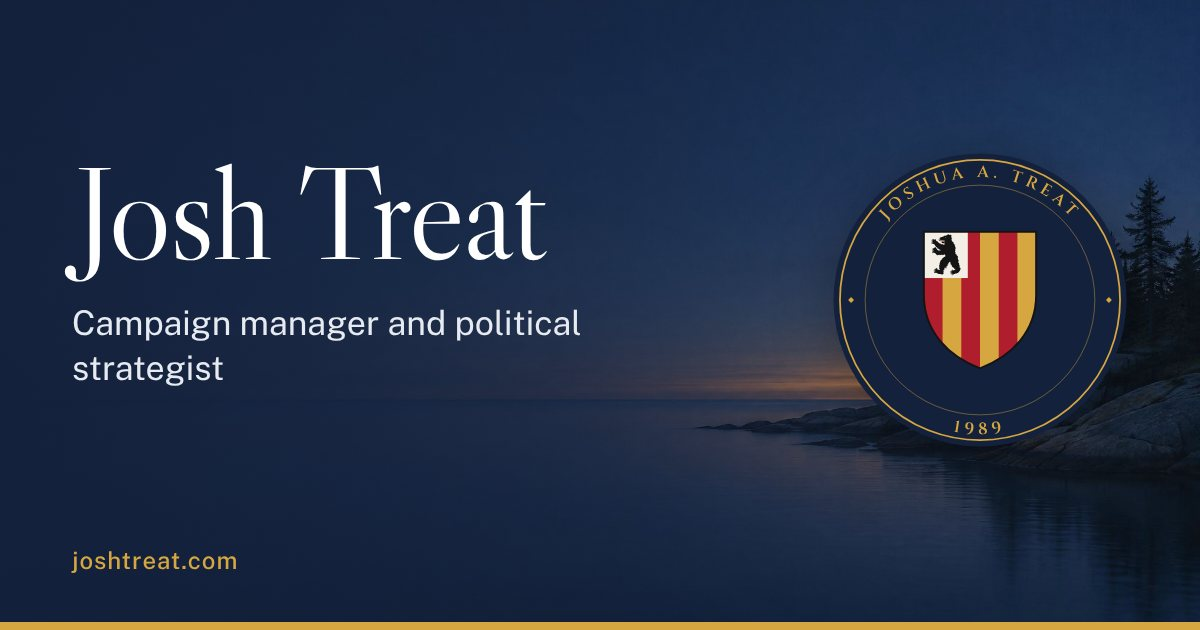
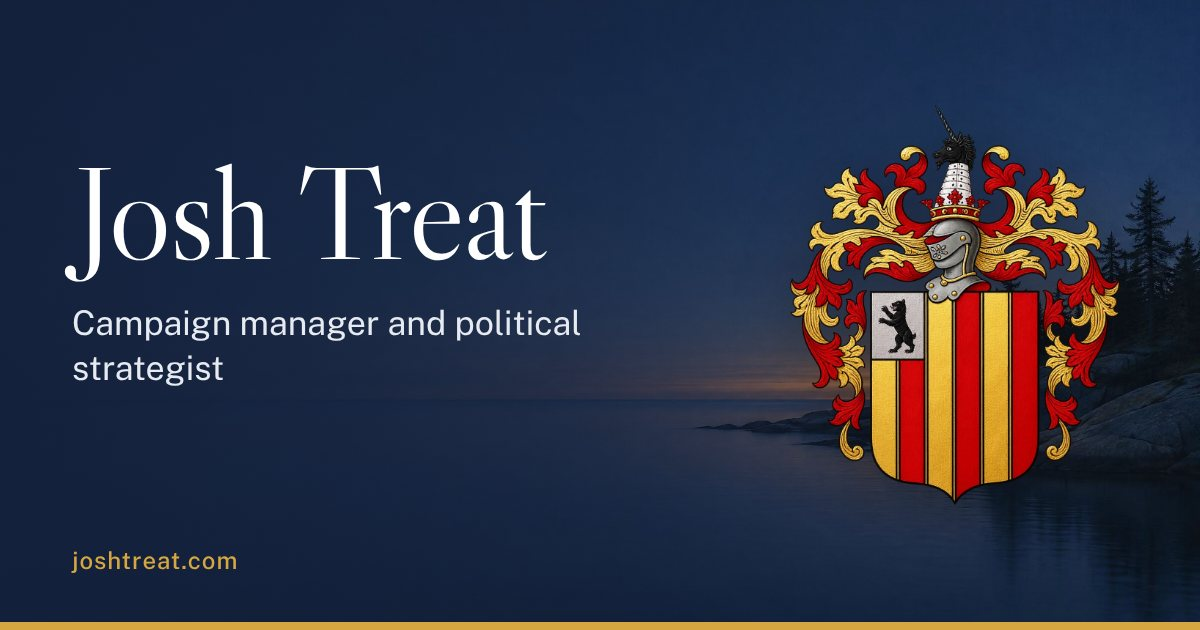
Crest: use the full painted Treat arms in the hero
Claude-Session: https://claude.ai/code/session_01UYVXu8Duyecri15RpRW5eS

Changed region(s): [[0.6475, 0.181, 0.9558, 0.8143]]

diff --git a/index.html b/index.html
@@ -90,7 +90,7 @@ a:hover { color: var(--gold-ink); }
 .btn-line { background: transparent; color: var(--white); border-color: rgba(255,255,255,.45); }
 .btn-line:hover { border-color: var(--white); color: var(--white); background: rgba(255,255,255,.06); }
 .badge { width: 100%; max-width: 21rem; height: auto; display: block; justify-self: center; filter: drop-shadow(0 10px 30px rgba(0,0,0,.35)); }
-@media (max-width: 55.99rem) { .badge { display: none; } }
+@media (max-width: 55.99rem) { .badge { order: -1; width: 8rem; justify-self: start; margin-bottom: -1rem; } }
 
 /* Sections */
 section { padding-block: clamp(3.5rem, 2.5rem + 3vw, 5.5rem); }
@@ -217,35 +217,7 @@ footer a { color: #C9D2E0; }
 <a class="btn btn-line" href="#contact">Get in touch</a>
 </div>
 </div>
-<svg xmlns="http://www.w3.org/2000/svg" viewBox="0 0 1024 1024" class="badge" width="336" height="336" role="img" aria-label="Round badge: Treat arms ringed by Joshua A. Treat, 1989">
-    <defs>
-      <clipPath id="shieldClip2"><path d="M4 4H96V56C96 86 76 106 50 116C24 106 4 86 4 56Z"/></clipPath>
-      <path id="arcTop" d="M92 512A420 420 0 0 1 932 512" fill="none"/>
-      <path id="arcBottom" d="M54 512A458 458 0 0 0 970 512" fill="none"/>
-    </defs>
-    <circle cx="512" cy="512" r="500" fill="#14213D"/>
-    <circle cx="512" cy="512" r="478" fill="none" stroke="#D6A740" stroke-width="6"/>
-    <circle cx="512" cy="512" r="392" fill="none" stroke="#D6A740" stroke-width="2" opacity="0.75"/>
-    <text font-family="Cinzel, Georgia, serif" font-weight="600" font-size="56" letter-spacing="0.28em" fill="#D6A740" text-anchor="middle">
-      <textPath href="#arcTop" startOffset="50%">JOSHUA A. TREAT</textPath>
-    </text>
-    <text font-family="Cinzel, Georgia, serif" font-weight="600" font-size="56" letter-spacing="0.28em" fill="#D6A740" text-anchor="middle">
-      <textPath href="#arcBottom" startOffset="50%">1989</textPath>
-    </text>
-    <rect x="65" y="505" width="14" height="14" fill="#D6A740" transform="rotate(45 72 512)"/>
-    <rect x="945" y="505" width="14" height="14" fill="#D6A740" transform="rotate(45 952 512)"/>
-    <svg x="303.7" y="262" width="416.6" height="500" viewBox="0 0 100 120">
-      <g clip-path="url(#shieldClip2)">
-        <rect x="4" y="4" width="92" height="112" fill="#B01E2D"/>
-        <rect x="19.33" y="4" width="15.34" height="112" fill="#D6A740"/>
-        <rect x="50" y="4" width="15.34" height="112" fill="#D6A740"/>
-        <rect x="80.67" y="4" width="15.33" height="112" fill="#D6A740"/>
-        <rect x="4" y="4" width="36" height="38" fill="#F3EFE6"/>
-        <svg x="4" y="4" width="36" height="38" viewBox="-70 -60 823 1075" preserveAspectRatio="xMidYMid meet"><!-- Bear rampant by Rinaldum, CC BY-SA 3.0, via Wikimedia Commons (curid=8391155); recolored sable --><g transform="translate(-6.4,-16.5)"><g><path d="m 197.8,124 c -27.3,4.6 -10.4,42.4 10.9,48.5 24.5,10.6 51.4,0.8 77,3.2 13.4,-3.6 43.3,7.5 44.4,-10.1 -24.6,-5.7 -51.3,0.9 -76.7,0 -22.2,3.7 -56.5,-3 -51.3,-32.7 -2,-2 3,-7 -4.3,-8.9 z" fill="#B01E2D" stroke="#141414" stroke-width="2" /></g><g><path fill="#141414" d="m 496.2,967.6 c -2.7,-9.1 -1.1,-16.7 4.7,-22.8 1.1,-1.2 2.2,-3.4 2.4,-5 0.2,-2.2 1.3,-3.4 4.8,-5.3 9.4,-5 9.6,-5.1 7.9,-5.1 -0.9,0 -2.9,-0.7 -4.4,-1.4 -1.5,-0.8 -3.5,-1.1 -4.4,-0.8 -2.2,0.8 -13,8.2 -13.7,9.4 -0.3,0.5 -1.9,0.7 -3.5,0.3 -3.6,-0.8 -6,0.7 -13.9,8.6 -3.7,3.7 -5.9,6.8 -5.9,8.2 0,2.2 0,2.2 -2.5,-0.5 -2.4,-2.6 -2.5,-3 -1.5,-9.6 1.1,-7.8 1.7,-9.8 4,-12.6 2.4,-3 9.5,-9.6 10.3,-9.6 0.4,0 0.8,-0.9 0.8,-2 0,-1.3 1.6,-2.9 4.8,-4.6 4.2,-2.3 7.2,-6 7.2,-8.6 0,-1.8 -5.5,-0.6 -9.5,2.2 -4.7,3.3 -9.5,4 -9.5,1.5 0,-2.5 -17,9.3 -17,11.9 0,0.6 -0.7,2 -1.5,3.1 -1.4,1.9 -1.5,1.9 -2.9,0 -2.2,-2.9 -1.9,-12 0.5,-17 1.1,-2.3 3.9,-5.7 6.2,-7.6 2.3,-1.8 4.8,-4.2 5.7,-5.2 3.1,-3.7 12.7,-10.3 16.6,-11.5 2.2,-0.7 5.8,-1.3 7.9,-1.4 6.1,-0.4 5.6,-2.5 -0.8,-3.3 -5.1,-0.6 -6,-0.4 -12.1,2.9 -3.6,2 -6.5,3.2 -6.5,2.7 -3.9,-5 -11.8,3.9 -14.5,7.1 -1.6,1.8 -3,2.5 -4.1,2.1 -1.4,-0.6 -1.6,-1.6 -1,-6.9 0.3,-3.4 1.1,-7.5 1.6,-9.1 9.2,-12.2 28.6,-17.4 43.2,-18.3 4,0.1 8.6,0.1 10.2,0.1 l 2.9,-0.1 c -4.6,-3.2 -6.9,-9.5 -11.8,-11.6 -4.4,-1.1 -9,0.5 -13.3,4.6 -2.3,2.2 -4.6,4 -5.2,4 -1.5,0 -1.3,-2.6 0.4,-5.8 3.5,-6.7 11.7,-11.2 20.2,-11.2 2.4,0 6.4,-0.5 8.8,-1.2 l 5,0.9 c 5.5,4.1 8.2,7.3 11.4,12.9 1.9,3.1 2,3.1 6.7,2.1 13,-3.5 25,-8.8 34.1,-18.9 6.3,-7.2 7.1,-8.4 5.9,-9.8 -3.6,-4 -6.5,-8.9 -11,-12.1 -0.6,0 -0.8,2.3 -0.4,6 0.7,6.9 0,7.4 -5.9,3.8 -5.6,-3.4 -9.8,-7.9 -20.4,-22.2 -5.3,-7.2 -10.7,-13.9 -11.9,-15 -1.2,-1.1 -4.3,-5.8 -6.9,-10.5 -4.2,-7.7 -4.7,-8.3 -5.3,-6 -0.4,1.4 -0.7,4.8 -0.8,7.7 -0.1,5.9 -1.2,6.5 -5.4,3.2 -4.3,-3.4 -8.1,-9.9 -14.1,-24.5 -3.1,-3.5 -11.8,-36.3 -13.1,-35.5 -2.8,3.7 -5.1,7.7 -9.4,10 -5.7,-19.9 -14,-41 -14.3,-62 -0.1,-12.4 -0.9,-14 -7.2,-14 -3.6,0 -5.2,0.9 -12.3,6.8 -9.2,7.6 -20.5,20.3 -24.7,27.7 -3.2,5.7 -4.9,13.5 -4.7,21.8 0.1,5 -0.1,5.8 -1.7,5.8 -3,-2.7 -4.9,-7.8 -9.1,-8 -1.4,14.8 -5.8,29.4 -5.4,44.2 0.3,3.8 0.1,5.8 -0.6,5.8 -8.3,-1.8 -12.8,-8.7 -18.8,-13.7 -0.1,0.1 -1,5.9 -1.9,12.7 -2.1,16 -7.2,46.6 -8.5,50.4 -0.5,1.6 -1,4.4 -1,6.2 0,2.7 -0.4,3.4 -2,3.4 -12.1,-7.4 -13.1,-26.2 -25.5,-33 -6.1,0 -9,6.2 -9.9,20.8 -0.7,13.5 -6.1,25.6 -7.8,38.9 -1.3,11.4 -2.3,12.5 -6.8,7.6 -2.5,-2.8 -10.8,-6.8 -11.8,-5.8 -0.3,0.3 -0.8,3.6 -0.9,7.3 -0.3,5.3 0.5,10.2 3.7,23.6 2.2,9.3 4.1,17.9 4.1,19.2 0,3.1 -2.4,3.1 -6.6,-0.1 -4.6,-3.5 -7.2,-3.2 -4,0.4 2.2,2.6 9.6,20.4 9.6,23.1 -2.2,14.2 -15,22.2 -26.3,28.7 -14.5,3.1 -41.3,-3.9 -56.1,-7.3 -14.8,-6.5 -35.2,-4.7 -49.5,-10.9 -10.8,-5 -21.1,-9.9 -31.6,-15.8 -4.8,-2.7 -4.2,-3.8 -12.2,-3.8 -5.2,0 -8.2,0.4 -8.4,1.2 -0.5,1.6 -8.4,3.8 -13.6,3.8 -4.7,0 -9.2,-2.3 -9.2,-4.7 0,-2.5 -9.9,-0.7 -13.1,2.3 -3.8,3.6 -5.3,3.2 -4.5,-1.3 1.1,-6.1 3.2,-8.9 8,-11.2 5.1,-2.3 10,-5.2 15.6,-6.1 6.5,0 11.9,-3.1 11.9,-6.8 0,-2.2 -5.3,-1.8 -10,0.6 -9.7,1.4 -5.9,0.5 -12.7,-1.3 -1,-1.5 -0.9,-2 -5.7,-1.7 -4.6,0.3 -5.8,0.8 -8,3.4 -3.1,3.6 -4,3 -4,-2.7 0,-9.2 6.3,-13.4 20.3,-13.4 7.9,0 9.7,-0.4 12.2,-2.2 1.6,-1.2 3,-2.7 3,-3.4 0,-1.4 -4.8,-2.5 -5.2,-1.2 -0.2,0.5 -3.1,1.2 -6.6,1.5 -5.8,0.5 -6.3,0.4 -6.8,-1.6 -0.4,-1.4 -1.3,-2.1 -3,-2.1 -3.2,0 -10,3.5 -11.6,6 -0.7,1.1 -2,2 -3,2 -1.4,0 -1.8,-0.9 -1.8,-4.5 0.3,-9.4 10.4,-13.4 18.4,-15.9 9.5,-2.7 14.9,-3.2 19.1,-1.6 1.7,0.7 3.3,0.7 4.5,0 1.6,-0.9 1.7,-1.5 0.8,-4.4 -1.2,-3.8 -2.8,-4.5 -9.5,-4.6 -4,0 -4.3,-0.2 -4.9,-3.1 -0.6,-2.8 -0.9,-3 -3.6,-2.5 -1.6,0.3 -4.8,2.2 -7,4.1 -5.5,4.7 -7.2,4.6 -6.3,-0.2 1,-5.2 5.8,-11.7 10,-13.8 2,-0.9 6.3,-1.8 9.8,-1.9 5.7,-0.1 22.9,1.5 30.4,2.9 2.9,0.5 3.3,0.3 3.9,-2.1 0.8,-4.9 -5.4,-8.1 -9.5,-8.5 -1.9,0 -4.2,-0.7 -5.1,-1.6 -1.6,-1.4 -2,-1.3 -5.2,1.5 -1.9,1.7 -4.2,3.1 -5.1,3.1 -2.2,0 -2.1,-3.5 0.2,-6.8 1.7,-2.9 2.5,-5.2 5.7,-6.6 15.6,-6.3 20.6,-8.3 33.5,5.5 7.2,8.6 6,10.5 8,16.9 2.4,10.2 14.4,11.2 23.6,12.6 4.6,0.5 9.6,2.2 19,6.5 4.7,2.1 6.7,2.3 9.5,0.8 2.2,-1.2 2.4,-4.2 1.3,-17.2 -0.6,-6.6 -0.9,-7.5 -2.4,-7 -1,0.2 -3,1.8 -4.4,3.4 -5.1,5.7 -5.4,4.7 -4.9,-15.3 0.3,-11.5 1.2,-23 2.5,-31 1.1,-7 1.9,-13 1.6,-13.2 -3.2,1.2 -5.4,4.5 -8.9,5 -3.3,-19.1 5.5,-40.9 14.4,-57.3 0.9,-1.1 6.7,-13.9 6.7,-14.9 -3.8,-1 -6.3,4.1 -7.8,7 -1.3,3 -3,3.6 -3.9,1.2 -1.3,-3.3 1.9,-18.1 5.8,-27.5 3.7,-9.3 8.9,-17.7 15.1,-25.5 l 6.5,-8 c -3.7,-0.6 -6.8,-0.6 -9.7,1.9 -3.4,3.2 -4.1,3.2 -4.1,0 8.2,-28.4 38.1,-42.4 55.5,-64 -4,1.5 -9.9,1.8 -10.6,0.6 12,-23.8 39.6,-35.3 61.6,-48.6 7.4,-2.1 11.9,-9.2 18.5,-12.1 4.4,-1.8 5,-3.7 2.1,-7.5 -7.9,-11.8 -14.5,-24.4 -21.6,-36.6 -12.5,5.5 -24.4,12.2 -36.6,18.4 -8.5,4.2 -14.8,5 -17.6,2.1 -1.6,-1.6 -1.6,-1.8 0.4,-4 1.8,-1.9 4.8,-9.7 4,-10.4 -6.2,3 -12.7,5 -19.6,6.2 -8.8,1.3 -13.2,2.9 -17.3,6.2 -4.1,3.3 -23.8,5.4 -27,2.9 -1.8,-1.4 -0.8,-5.7 1.4,-5.8 l 4.5,-7 c -7.3,0.1 -13.8,3.7 -20.9,4.8 -11.3,4.9 -21.8,9.9 -34.7,11.3 -4.8,0 -14.9,-3.2 -15.6,-4.9 4.6,-3.6 6.8,-7.3 6.7,-11.2 l -10.8,0.6 c -9.4,0.5 -11.5,0.4 -15.8,-1.3 -2.8,-1.1 -5.1,-2.7 -5.3,-3.6 1.8,-5.3 9.9,-3.6 11.8,-10 0,-1 -5.3,-4.4 -14,-9 -8.4,-4.5 -13.6,-14.7 -23.4,-16.6 -0.8,0 -5.5,-2 -10.4,-4.5 -5,-2.5 -9.6,-4.2 -10.5,-3.9 -3.8,3.2 -4.5,5.5 -10,4.9 -2.8,-0.4 -6,-0.9 -6.9,-1.1 -2.1,-0.2 -2.5,2.7 -3.8,4.2 -2.9,2.7 -5.2,8 -4.5,10.4 1,3.2 -2.7,2.6 -5.2,-0.7 -5.7,-9.1 -3.5,-20.4 3.1,-28.2 6.3,-7.2 9.7,-9.9 14.5,-11.5 2.8,-0.9 3.7,-1.9 4,-3.9 l 0.3,-2.6 -7.8,0.3 c -18.6,-1.1 -13.2,10.7 -17.7,13.7 -2.4,0 -3.7,-2.6 -4.3,-9.2 -0.7,-16.1 10.1,-25.4 26,-25.6 l 8.5,0.3 0.4,-3.1 c 0.4,-3 0.2,-3.1 -5.4,-4.4 -3.2,-0.7 -6.3,-1.9 -6.9,-2.7 -4.2,-3 -13.1,7.2 -14.9,11.2 0,2.6 -1.8,3.2 -3.8,1.2 -2,-2 -1.4,-12.3 1,-17.6 6.1,-13 15.6,-16 28.6,-16.2 h 9.2 v -2.8 c 0,-2.5 -0.4,-2.8 -3.7,-2.8 -3.1,-0.6 -6.5,-1.8 -9.3,-3.4 -7.1,-3.1 -16.7,4 -22.6,8 -0.2,0 -0.4,-2.1 -0.4,-4.8 4,-19 22.2,-21.3 38.1,-21.9 15,-0.5 18.3,-0.3 21.8,1.1 4.3,1.7 10.6,2.2 9.7,0.8 -0.3,-0.5 -2.5,-1.1 -4.8,-1.4 -6.2,-1.2 -7.3,-6.3 -13.9,-4.8 -2.7,0.7 -5.2,1 -5.5,0.7 1.3,-9.1 11,-13.5 19.3,-13.7 l 12.4,5.2 c 2.7,2.8 4.9,6 4.9,7 0,1 1.6,4 3.6,6.6 3.1,4.1 3.5,5.3 3.1,8.9 -0.4,3.6 -0.1,4.6 2,6.5 8.5,8.3 14,18.9 21.2,28.1 12.5,12.7 8.8,11.7 35,15.8 13.6,1.2 15.5,1.1 29.5,-1 8.2,-1.2 19.1,-2.8 24,-3.5 9.6,-1.3 9.6,-1.4 -0.5,-4.1 -8.4,-3.8 -37.8,-7.3 -43,-16 0,-0.6 1.6,-2.6 3.5,-4.5 3,-3 3.3,-3.6 1.7,-4.1 -14.7,-3.5 -28.9,-9.9 -43.4,-13.9 -4,0 -9.9,-2.5 -9.9,-4.2 0,-0.9 2.3,-3.3 5.1,-5.3 6,-4.3 5.8,-4.8 -3.5,-10.1 -9.7,-3.3 -16.4,-12.8 -26.1,-15.6 -6.9,-2.7 -1.4,-5.5 2.8,-8.2 -6.1,-5.1 -13.4,-8.3 -17.3,-15.7 -5.9,-11 -13.6,-20.6 -21.7,-30.1 -4.6,-5.3 -8.3,-10.4 -8.3,-11.2 0,-1.1 -0.9,-1.6 -2.8,-1.7 -1.5,0 -5.2,-1.6 -8.2,-3.4 -10,-6.1 -24.7,-12.9 -25.2,-11.7 -1.6,3.6 -12.8,7 -12.8,3.8 -4.5,-3.8 -8.7,1.8 -9,6.1 -0,2.5 -0.5,3.2 -1.8,3.2 -1.4,0 -2.1,-1.3 -3.1,-6.3 -4.6,-13.8 13.3,-21.7 23.8,-24.5 3.2,-0.4 3.9,-0.9 4.2,-3.2 0.4,-2.7 0.2,-2.8 -7,-4 -5.8,-1 -7.5,-1.7 -7.9,-3.2 -0.4,-1.6 -1.1,-1.8 -5.1,-1.2 -2.6,0.4 -5.9,1.7 -7.5,3 -2.9,2.5 -7.3,4 -8.3,3 1.7,-11.9 9.2,-20.1 21.3,-21.7 1.7,0 3.7,-0.7 4.5,-1.6 3.3,-3.6 10,1.6 12.9,-1.8 0,-0.8 0.7,-1.9 1.5,-2.6 2.5,-2.1 1.7,-3.5 -2.3,-3.6 -5.6,-0.2 -9.2,-1.9 -9.2,-4.3 0,-1.8 -0.6,-2 -5.1,-2 -5,0 -10.2,2.4 -12.2,5.7 -1.8,2.9 -3.7,1.4 -3.7,-2.8 -0.2,-18.7 19.3,-17.3 33.5,-17.1 l 8,0.5 -2.9,-3.1 c -1.9,-2.1 -3.9,-3.1 -5.8,-3.1 -2,0 -2.8,-0.5 -2.8,-1.8 0,-1.4 -1.4,-2 -7,-3.1 -7.6,-1.4 -8.1,-1.3 -12.5,3.6 -3.2,3.5 -4.8,2.9 -4.1,-1.4 2.8,-10.5 12.2,-15.7 22.4,-14.8 5,0.5 7.3,0.3 7.3,-0.4 0,-1.8 5.8,-1.2 10.3,1.1 9.3,6.6 12.5,3.6 30.7,17.7 5.8,3.8 6.5,4 7.1,2.5 0.7,-8.8 -7.9,-17 -14.8,-19.7 -1.4,0 -4.3,0.7 -4.3,-1 0,-3.8 6.2,-6.1 14.4,-5.2 9.5,1.6 19.4,9.4 22.7,18.6 1.7,4.9 2.9,10.2 2.8,12.5 -0.4,8.1 0.1,11.2 2.1,13.3 3.9,4 8.3,1 12.5,-0.8 4.9,25.7 19.7,1.1 23.4,13 0.7,2.7 2.8,8 4.7,11.8 l 7,15.2 c 1.1,-2.7 2,-5.4 2.4,-8.2 0,-2.5 3.7,-2.1 4.7,0.6 5.9,13.4 16.7,20.3 27.2,27.9 3.4,2.6 3.7,2.4 3.3,-2.1 -0.4,-4.3 0.9,-5.1 4.6,-3 15.7,10.1 25.4,21.9 47.7,30 0.6,-3.9 -1.3,-9.9 4,-10 6.1,0.9 11.7,6.5 16.4,10.3 l 6.9,5.8 c 12.1,-7.5 30.4,-4.9 41.6,-13.9 0.7,-1.1 -6.1,-4.8 -10.4,-5.6 -4.1,-0.8 -10,-5 -10,-7 0,-1.4 7.6,-5.3 14.5,-7.5 10.2,-3.2 14.3,-5.8 15.8,-10.2 1.8,-5.2 -16.2,-3.3 -30.8,3.2 -8.1,3.6 -19.1,5.3 -29.9,4.6 -9.2,-0.6 -10.6,-1 -16.5,-4.4 -8.4,-4.9 -11,-9.1 -11,-18.3 0,-5.1 0.4,-7 1.8,-8.2 1,-0.9 2.3,-1.7 2.9,-1.7 0.6,0 1.3,-2.8 1.6,-6.2 0.5,-5.1 1,-6.5 3.3,-8.5 4.5,-3.8 4.4,-3.9 9.5,9.7 2.8,7.4 4,9.5 5.5,9.5 1.7,0 1.9,-0.6 1.6,-5.7 -0.7,-11.8 1.8,-16.6 7.7,-15.3 2.8,0.6 3.8,2.8 7.3,17 0.7,2.8 1.3,5.1 1.4,5.3 0.1,0.2 1.8,0 3.8,-0.4 4.3,-0.8 4.4,-1.9 1.2,-8.2 l -3.8,-14.5 c 8.8,0.1 14.1,4.7 18.1,12.4 2.5,5.8 3,6.2 5.6,4.1 7.8,-10.8 1.3,-22.1 -2,-33.1 -0.7,-5.1 -9.7,-11.3 -13.5,-7.6 0,2.5 -3.3,11.6 -4.2,11.6 -4.2,5.3 -4.3,6 -7.7,1.1 -1.8,-1.6 -2.3,-3.1 -2.4,-8 l -0.1,-6 h -6.2 c -7,0 -6.6,-0.2 -15.6,10.8 -2.8,3.4 -5.6,6.2 -6.3,6.2 -3,-2.7 -6.2,-4.8 -7.4,-12 h -28 l -3.5,-4.8 c -2.6,-3.5 -3.6,-6.2 -4.1,-10.2 -1,-8.8 -1.2,-9.4 -7,-16.4 -5.3,-6.5 -5.5,-7 -5.5,-12.6 0,-5.7 0.1,-6 4.2,-9.3 8.7,-5.6 19.1,-8.8 29,-11.8 13,-4.1 25.7,-8.9 37.9,-14.9 5.4,-0.9 10.8,-3.6 16.3,-2.3 l 9.8,-9.3 c 13,-12.3 10.6,-11.6 56.8,-16.5 13.5,-1.4 15,-1.8 15,-3.8 0,-4.4 9.6,-15 19.1,-21.1 5,-3.2 7.1,-4 10.9,-4 9.5,0 18.2,4.2 21.7,10.6 1.2,2.2 2.2,4.7 2.2,5.6 0.1,1.6 0.3,1.6 3.3,-0.2 3.4,-2 15.5,-4 23.9,-4 3.1,0 6.5,0.8 9.2,2.1 8.6,4.7 17.1,12.2 16.4,22.6 -1.3,15.3 -4.3,23.7 -11.2,31.1 l -4,4.4 10.8,-0.6 c 11.7,-0.7 12.3,-0.3 8.8,4.3 -3,6.5 -8.4,11.6 -12,17.9 0,1.2 12.9,2.3 18.4,1.5 5.4,-0.7 5.5,-0.4 2.9,7.2 -2.9,8.1 -6.7,13.8 -11,16.2 -2.2,1.2 -4.7,2.2 -5.5,2.2 -9.1,4.8 9.5,24.6 13.3,27 9.1,3.9 18,13.2 18,18.7 0,2.4 -0.2,2.4 -4.2,1.7 -4.6,-0.8 -5.6,-0.9 -10.6,-0.6 l -3.3,0.2 c 10.4,10.7 25.1,12.8 37.3,20.7 4.5,3.1 8.8,9.8 8.8,13.6 0,2 -2.9,2.2 -5.3,0.4 -1.1,-0.8 -3.9,-1.1 -7.3,-0.9 l -5.6,0.3 8.4,8.7 c 11.5,11.2 21.1,24.2 31.8,36.1 7.7,8.5 12,14.2 12,15.9 0,1.5 -6.6,1.3 -9.8,-0.4 -2.8,-1.5 -10.2,-3.2 -10.2,-2.4 0,1.1 3.6,7.6 5.9,10.8 8.4,11.1 12.6,23.7 17.3,36.5 2.5,6.2 5.5,18 6.4,24.6 0.6,4.5 0.5,4.9 -1.4,4.9 -1.9,0 -8.2,-5.5 -8.2,-7.2 0,-0.4 -1.1,-0.8 -2.5,-0.8 -2.5,0 -2.5,0.1 -2.4,8.2 0,4.5 0.5,10.7 0.9,13.8 0.5,3 1.4,10 2,15.5 0.6,5.5 1.8,12.3 2.6,15.1 0.8,2.8 1.4,5.4 1.4,5.8 0,1.2 -3.9,0.7 -4.7,-0.6 -1.3,-2 -5.5,-4.3 -9.2,-5.1 -3.2,-0.6 -3.3,-0.6 -1.9,1.1 1.8,2.1 6.8,13.8 6.8,15.9 0,0.8 1.3,4.5 2.9,8.2 1.6,3.7 3.2,8.4 3.5,10.4 0.4,2 2,5.1 3.5,6.8 1.9,2.1 3,4.6 3.4,7.8 0.3,2.6 0.9,5.7 1.2,6.9 0.9,3.3 -2.2,2.9 -6.6,-0.8 -4.8,-4.2 -6.4,-3.9 -5.6,0.8 2.1,11.3 10.7,19 34.5,31.4 4.7,2.4 6.5,3.9 6.5,5.4 0,1.5 -0.8,2.1 -3.5,2.5 -4,0.6 -10,3.6 -10,5 0,0.5 1.7,2 3.8,3.3 2.1,1.3 4.6,3.3 5.7,4.5 1.1,1.2 2.3,2.1 2.8,2.1 1.5,0 11.7,7.4 11.8,8.5 0,0.6 1.9,3 4.1,5.5 4.5,4.9 8.8,13.3 9.2,17.6 0.2,2.8 0.1,2.8 -8.4,4.7 -2.5,0.6 -2.5,0.7 3.3,6.8 7.1,7.6 11.7,14.2 11.7,16.8 0,2.1 -2.6,2.8 -12.1,3.2 l -5.6,0.2 2.6,5.2 c 6.8,13.4 14.6,28.6 19,36.9 4.3,8.1 4.9,9.9 5.4,17.2 0.5,7.2 0.4,8.2 -1.1,8.2 -0.9,0 -2.1,-1 -2.7,-2.2 -0.9,-2 -5.9,-4.7 -6.8,-3.7 -1.1,1.2 0.8,7.2 2.4,7.7 1.9,0.5 2.4,2.3 3.5,12 0.7,5.8 0.6,6.2 -1.3,6.2 -1.1,0 -2.3,-0.7 -2.6,-1.5 -0.4,-1.1 -1.4,-1.3 -3.4,-0.9 -1.5,0.4 -2.9,0.8 -3.1,0.9 -0.3,0.3 0.5,1.4 11.9,17.2 3.3,4.5 6,8.6 6,9.1 0,0.5 2.2,3.8 5,7.5 2.8,3.6 5,7.5 5,8.6 0,1.1 0.5,2.3 1,2.6 1.6,1 4,7.4 4,10.6 0,3.8 -3,3.9 -5.9,0.3 -1.4,-1.8 -2.8,-2.5 -4.5,-2.2 -2.4,0.3 -2.4,0.4 -0.8,3.5 1.6,3.2 13.3,23.4 15.2,26.3 4.7,7.4 7.3,22.1 3.9,22.8 -0.9,0.2 -2.1,-0.8 -2.7,-2.2 -0.7,-1.6 -2,-2.5 -3.3,-2.5 -2.1,0 -2.1,0.3 -1.5,6.8 0.3,3.7 0.6,9.8 0.7,13.5 v 6.8 h 4.3 c 4.8,0 6.2,1.2 15.7,13 l 5.2,6.5 -0.6,6.5 c -0.3,3.6 -1.2,8.3 -2,10.5 -0.8,2.2 -2,6 -2.7,8.5 -6.5,24.2 -4.5,20.8 -35.2,58.7 -6.9,8.5 -12.8,13.8 -18.3,16.4 -2.2,1.1 -6.2,3.2 -9,4.8 -2.8,1.6 -6.5,3.6 -8.5,4.5 -1.9,0.9 -4.2,2.2 -5,2.9 -3.8,3.2 -12.7,5.6 -30,8.1 -10.2,1.5 -19.2,3.2 -20,3.9 -2,1.7 -11.5,5.6 -13.6,5.6 -2,0 -14.4,8.7 -14.4,10.1 0,0.5 -1,0.9 -2.3,0.9 -1.3,0 -2.8,0.5 -3.4,1.1 -0.9,0.9 -1.9,0.8 -4.1,-0.1 -2.5,-1 -3.4,-1 -5.5,0.5 -1.4,0.9 -2.6,2 -2.6,2.4 0,0.4 -1.7,2.6 -3.7,5 -2,2.4 -4.7,6.5 -6,9.2 -1.2,2.7 -2.9,4.8 -3.6,4.8 -0.8,0 -1.9,-1.7 -2.5,-3.9 z" /></g><path fill="#F3EFE6" d="m 286,191.5 c -0.6,0 -1,-1.7 -1,-3.8 0,-8.7 -2.6,-11 -4.8,-4.2 -1.1,3.5 -1,8.5 0.3,12.7 2.6,3.4 8,-1.9 5.5,-4.8 z" /><path fill="#F3EFE6" d="m 266,195 c 0,-2.5 -4.2,-14.5 -5.1,-14.5 -0.9,4.2 -2.6,12.1 0.9,15.3 3.3,0.9 4.2,0.7 4.2,-0.8 z" /><path fill="#F3EFE6" d="m 306.4,193.9 c 4.2,-3.5 -3,-10.9 -5.9,-13.2 -1.5,-0.3 -2.2,0.3 -1.2,3.5 2,3.9 1.6,11.4 7.1,9.8 z" /><path fill="#F3EFE6" d="m 293.9,149.5 c -4.8,1.7 -3.7,8.1 -2.4,12 4,-2.3 8.2,-9.6 2.4,-12 z" /><path fill="#141414" d="m 520,939.1 c 1.4,-6.9 11.8,-9.8 8.5,-16.8 -1.7,-3.3 -9.1,-7.2 -15.1,-8.1 -3.8,-0.5 -4.2,-0.4 -4.7,1.9 -1,3.9 -7.4,7.8 -13,7.8 -4,0 -4.7,-0.3 -4.7,-2 0,-1.1 0.7,-2 1.5,-2 2.8,0 10,-4.7 12.3,-8 2.5,-3.6 2.8,-6.8 1.1,-11.5 -1.1,-3.2 -1.2,-3.2 -9.8,-3.7 -7.5,-0.5 -8.8,-0.3 -10.7,1.4 -2.8,2.6 -4.4,2.4 -4.4,-0.4 0,-3.2 1.8,-4.7 5.6,-4.7 1.8,0 3.5,-0.5 3.9,-1.1 0.4,-0.7 2.6,-0.8 6,-0.4 4.8,0.6 5.6,0.4 7.8,-1.8 1.8,-1.8 2.3,-3.2 1.9,-4.9 -1,-4.1 -4.3,-7.8 -7.6,-8.7 -2.2,-0.6 -3.2,-1.4 -3.2,-2.8 0,-1.8 0.8,-1.9 11.5,-2.1 25.6,-0.3 41,-3 45.1,-7.9 1.1,-1.4 11.1,-9.7 18.1,-15.2 1.3,-1 5.5,-5 9.5,-9.1 10.7,-10.8 10.7,-10.9 -5.8,-30.6 -12,-14.3 -13.3,-15.6 -16.3,-15.6 -3.4,0 -7.7,3.3 -7.7,5.9 0,2.1 -2.6,-0.5 -6.7,-6.7 -2,-3 -5.7,-7.7 -8.3,-10.6 -4,-4.3 -12.4,-17.8 -17.8,-28.5 -2.7,-5.2 -7.3,-9.2 -10.7,-9.2 -1.8,0 -3.8,0.7 -4.4,1.5 -1.7,2.1 -2.8,1.9 -3.5,-0.8 -0.4,-1.2 -1.7,-4.5 -3,-7.2 -1.2,-2.8 -4,-13.8 -6,-24.5 -2.1,-10.9 -4.4,-20.3 -5.3,-21.2 -2.4,-2.8 -8.6,-2.3 -11.1,0.9 -2.3,3 -2.3,3 -3.8,-1.1 -3.2,-8.5 -4.8,-20.8 -6.9,-51.8 -0.5,-7.8 -0.9,-9 -3.1,-10.8 -3.5,-2.8 -8.6,-2.5 -11,0.5 l -1.9,2.4 -1.1,-3.2 c -0.6,-1.7 -1.4,-5 -1.8,-7.2 -0.4,-2.2 -1.7,-6.5 -3,-9.5 -1.2,-3 -2.9,-7.5 -3.6,-9.9 -0.7,-2.4 -2,-5.3 -3,-6.5 -0.9,-1.2 -2.2,-4.4 -3,-7.1 -0.7,-2.8 -2.2,-6.8 -3.2,-8.9 -1,-2.2 -1.9,-4.9 -1.9,-6.1 0,-1.2 -0.3,-3.6 -0.6,-5.3 -0.6,-3 -0.7,-3.1 -2.5,-1.5 -1.3,1.2 -1.9,3.1 -1.9,6.6 0,4.9 7.6,45.3 8.8,47.2 0.4,0.6 0.7,5.8 0.8,11.7 0.1,10.6 0.1,10.7 -2.7,12.8 -1.6,1.2 -3.3,2.1 -3.8,2.1 -1.8,0 -7.4,5.4 -8.8,8.4 -0.8,1.7 -2.6,5.1 -4.1,7.7 -1.5,2.5 -4.8,8.4 -7.4,13 -2.6,4.6 -5.6,9.2 -6.8,10.1 -1.1,1 -2,2.5 -2,3.3 0,1.4 -0.2,1.4 -2.2,0 -3,-2.1 -8.1,-2 -10,0.2 -0.8,1 -1.8,3.5 -2.1,5.8 -2.2,15.7 -4.8,32.3 -5.3,33.8 -0.4,1.4 -1.2,0.9 -4,-2.8 -3.2,-4.2 -3.8,-4.5 -7.8,-4.5 -5.9,0 -7.1,1.8 -8.5,12.5 -2.3,17.7 -5.1,37.1 -6.4,43.9 l -1.3,6.9 -3.7,-4.5 c -2,-2.5 -3.7,-4.9 -3.8,-5.4 0,-0.5 -2.7,-2.8 -5.9,-5.2 -5.4,-3.9 -6.2,-4.2 -10,-3.6 -6.1,1 -8.2,3.2 -10.2,11 -1,3.8 -2.5,9.4 -3.4,12.4 -0.9,3 -2.2,8.2 -3,11.6 -0.7,3.4 -1.8,7.2 -2.4,8.5 -0.8,2 -4.1,22.5 -4.1,25.9 0,1.6 -2.8,1.1 -8.1,-1.6 -4.1,-2.1 -5.9,-2.4 -9.4,-1.9 -9.1,1.4 -9.9,5.9 -5,27.9 1.9,8.8 3.8,17.2 4.1,18.6 0.5,2.5 0.3,2.7 -4.1,3.3 l -4.7,0.7 0.3,9.3 c 0.2,6.9 0.8,9.8 2,11.2 0.9,1 3,5.1 4.7,9.2 l 3.1,7.3 -3.6,4.9 c -2.1,2.8 -5.7,6 -8.4,7.5 -2.6,1.4 -5,3 -5.3,3.5 -0.3,0.5 -3.3,0.2 -6.8,-0.5 -3.5,-0.7 -8.8,-1.4 -11.9,-1.4 -5.8,0 -27,-4.7 -36.9,-8.1 -1.4,-0.5 -9.7,-1.8 -18.5,-2.9 -12.7,-1.6 -16.7,-2.6 -19.5,-4.4 -1.9,-1.3 -8.9,-4.5 -15.5,-7.1 -10.2,-4.1 -12.7,-5.6 -16.6,-9.7 l -4.6,-4.8 -8.2,0.7 -8.2,0.7 1,-2.7 c 0.6,-1.5 1,-5.1 1,-8.1 0,-4.3 -0.5,-6 -2.7,-8.5 -2.4,-2.9 -2.6,-3.9 -2.4,-10.3 0.2,-6.5 0.5,-7.5 3.3,-10.4 3,-3.1 3.1,-3.3 2.5,-10.8 l -0.6,-7.5 h 2.7 c 1.5,0 4.5,0.7 6.7,1.4 2.2,0.8 5.6,1.5 7.5,1.5 1.9,0 5.6,1.2 8.2,2.5 2.6,1.4 5.2,2.5 5.8,2.5 0.6,0 2.6,0.6 4.3,1.4 5.7,2.4 10.4,3.7 15.8,4.3 2.9,0.3 6.6,1.3 8.3,2.1 3.5,1.8 7.6,3.1 13.1,4.3 2.2,0.5 7.5,1.7 11.8,2.6 8,1.8 10.2,1.5 11.8,-1.8 3.1,-6.4 3.2,-6.9 2.4,-31.3 -0.7,-22 -0.9,-24.7 -2.6,-26.2 -1.2,-1.1 -3,-1.5 -5.4,-1.3 -3.4,0.4 -3.5,0.3 -3.5,-2.8 0,-1.8 0.6,-6.5 1.4,-10.6 2.5,-12.9 3.6,-20.4 4.2,-28.2 0.7,-8.7 -0.7,-11.6 -5.8,-11.6 -1.6,0 -2.9,-0.3 -2.9,-0.6 0,-1.3 10.2,-25 11.4,-26.4 0.7,-0.8 3.4,-6.7 6,-13 2.6,-6.3 5.4,-12.2 6.2,-13.1 0.8,-0.9 1.4,-3.4 1.4,-5.6 0,-4.8 -2.3,-7.3 -6.8,-7.3 -3.6,0 -4.1,-1.5 -1.4,-5.1 1,-1.3 2.3,-3.5 2.9,-4.9 0.6,-1.4 5.3,-7.8 10.5,-14.3 15.9,-20.1 16.8,-21.4 16.8,-24.5 0,-3.5 -2.4,-6 -6.2,-6.4 -2.5,-0.3 -1.9,-1 8.2,-9.8 6,-5.2 18.1,-15.9 27,-23.8 14.2,-12.7 16,-14.7 16,-17.4 0,-1.7 -0.7,-3.9 -1.6,-4.8 -1.4,-1.6 -1.2,-2 2.2,-4.7 2.1,-1.6 6.3,-4.4 9.3,-6.2 7,-4.1 8.4,-4.9 14.5,-8.7 2.8,-1.7 7.7,-4.5 10.9,-6.3 3.3,-1.8 7,-4.1 8.4,-5.2 1.4,-1.1 3,-1.9 3.7,-1.9 0.7,0 2,-0.9 3,-2 1,-1.1 2.3,-2 2.9,-2 0.6,0 4.2,3.9 8.1,8.6 14.3,17.6 18.8,22.9 19.9,23.3 1.1,0.4 18,13.5 22.4,17.4 2.1,1.8 2.3,1.8 2.9,0.3 0.4,-1.1 -0.1,-2.2 -1.4,-3.1 -2,-1.4 -7.3,-7.8 -28.7,-34.6 -17.6,-22.1 -19.1,-24.4 -26.5,-39.5 -1.1,-2.3 -2.6,-4.7 -3.4,-5.3 -0.8,-0.7 -1.7,-3.4 -2.1,-6.1 -0.4,-2.7 -1.1,-5.2 -1.7,-5.6 -0.6,-0.3 -1.7,-2 -2.5,-3.8 -0.8,-1.7 -2.5,-4.9 -3.9,-7.1 -1.3,-2.2 -2.4,-4.3 -2.4,-4.6 0,-0.3 1.4,-1.2 3.2,-1.9 1.8,-0.7 4.4,-2.2 5.7,-3.2 l 2.5,-1.9 0.8,2.8 c 0.9,3.2 0.2,7.3 -1.3,7.3 -1.1,0 -1.3,4.9 -0.4,7.4 1,2.6 13.4,1.9 13.4,-0.8 0,-0.6 10.2,-5.3 22.8,-10.5 12.5,-5.2 24,-10.3 25.6,-11.3 1.6,-1.1 3,-1.8 3.3,-1.5 0.2,0.2 1,2.8 1.8,5.6 1.1,4.3 1.1,5.6 0,7.8 -0.7,1.4 -1.4,3 -1.4,3.5 0,1.2 4.2,1.1 7.5,-0.1 4.9,-1.9 44.7,-36.6 47,-41.1 0.8,-1.6 2.8,-4.4 4.3,-6.2 4.3,-5 5.7,-10.2 5.4,-19.2 l -0.3,-7.9 -2.1,3.4 c -4.2,6.8 -5.8,10 -5.8,11.4 0,2.4 -9.1,12.6 -11.2,12.6 -1.1,0 -6.3,3.7 -11.6,8.3 -18.9,16.3 -20.2,17.2 -21.2,15.7 -0.5,-0.8 -0.9,-2.4 -0.9,-3.6 0,-6.7 -12.9,-7.2 -21,-0.8 -1.1,0.9 -28.7,12.8 -39.8,17.1 -0.9,0.4 -1.2,-1 -1.2,-5 0,-10.8 -5.5,-13.3 -17.2,-7.7 -9.8,4.7 -16.2,7.9 -17.8,8.9 -0.8,0.5 -7.1,3.8 -13.8,7.2 -6.8,3.5 -14.2,7.3 -16.5,8.5 -5.8,3 -6.7,2.9 -6.7,-1 0,-5 -2.5,-6.7 -10.2,-6.7 -5.6,0 -7.5,0.5 -13.9,3.8 -5.8,3 -9.4,4.1 -16.3,5 -4.9,0.6 -9.9,1.8 -11.2,2.7 -3.2,2.1 -3.4,2 -3.4,-1.8 0,-2.1 -0.8,-4 -2,-5.1 -1.8,-1.7 -2.8,-1.7 -12.2,-0.6 -13.7,1.6 -19.4,2.6 -24.3,4.5 -2.2,0.8 -5.4,1.6 -7.1,1.6 -1.7,0 -4.6,1.1 -6.5,2.5 -4.9,3.6 -9.8,6 -10.6,5.2 -0.4,-0.4 -0.1,-1.8 0.5,-3.2 1.8,-4 1.4,-7.9 -1.1,-10.3 -2.5,-2.4 -5.2,-2.7 -10.7,-1.3 -1.9,0.5 -5.6,1.1 -8.2,1.5 l -4.8,0.6 v -4.4 c 0,-3.9 -0.4,-4.7 -4.4,-8 -2.4,-2 -4.9,-3.6 -5.4,-3.6 -2.8,0 -16.7,-8.6 -21.8,-13.5 -3.2,-3.1 -7.2,-6.3 -8.9,-7.2 -5.6,-2.9 -15.9,-6.4 -23.8,-7.8 -6.9,-1.3 -8.2,-1.3 -11.4,0.1 -4.7,2 -5.4,1.9 -5.4,-0.4 0,-2.6 3.7,-5.1 7.6,-5.1 h 3.1 l 0.6,-9.2 c 0.4,-6.7 0.3,-9.4 -0.6,-10 -0.7,-0.4 -3.5,-0.8 -6.2,-0.8 -5.1,0 -7.5,-1.2 -7.5,-3.8 0,-1.1 1.2,-1.2 5.2,-0.8 7.6,0.9 11,-0.4 12.4,-4.5 3.3,-9.6 3.7,-12 2.5,-13.2 -0.6,-0.6 -1.2,-2 -1.2,-3 0,-1.3 -1.1,-2 -4,-2.4 -2.7,-0.4 -4.2,-1.3 -4.6,-2.6 -0.8,-2.5 -0.6,-2.6 4.6,-3.6 2.4,-0.5 6,-1.7 7.9,-2.8 3.5,-2 3.5,-2 3.8,-9.8 0.3,-6.9 0,-8.1 -1.9,-10.2 -1.2,-1.3 -2.7,-2.4 -3.3,-2.4 -0.6,0 -2.8,-0.5 -4.8,-1 -6.7,-1.9 -4,-4.9 4.2,-4.9 4.7,0 8,1 8,2.3 0,0.6 2.8,2 6.2,3 11.7,3.5 14.2,4.7 19.9,9.4 4.8,4 18.8,20.9 18.8,22.7 0,0.3 2.5,3.9 5.6,8 4.2,5.5 6.8,8 10,9.4 2.4,1.1 6.7,3.5 9.6,5.4 5.1,3.3 5.8,3.5 20.3,4.7 18.4,1.5 27.1,1 53.5,-2.9 11.3,-1.7 23.6,-3.5 27.5,-4.1 12.6,-1.8 14.8,-3.2 14.3,-9.3 -0.2,-2.7 0.2,-4.2 1.2,-4.7 4.5,-2.4 24.7,-13.7 27.5,-15.4 9.7,-5.8 13.1,-7.9 14.7,-9.3 2.5,-2.1 2.3,-8.4 -0.2,-10.7 -1.9,-1.8 -1.8,-2 10.5,-14.7 6.9,-7.1 12.5,-13.5 12.5,-14.2 0,-0.7 2.2,-4.3 5,-7.9 2.8,-3.6 5,-6.9 5,-7.2 0,-0.4 1.4,-2.4 3.1,-4.6 12.1,-15.2 -19,8.2 -42.9,32.4 -13.1,13.2 -14.2,14.7 -14.2,18 0,2 0.5,3.9 1.1,4.3 0.7,0.5 0,1.3 -1.9,2.3 -1.7,0.9 -7.5,4.1 -12.9,7.2 -10.3,5.9 -11.8,6.7 -20.1,11 -4.7,2.4 -5.2,2.5 -6.6,1 -1.9,-2.1 -10.3,-4.9 -27.6,-9.2 -5.8,-1.4 -10.3,-3.6 -9.1,-4.4 2.1,-1.3 1.3,-8.1 -1.1,-10.2 -2.3,-2 -14.6,-7.3 -17.1,-7.3 -0.7,0 -3.5,-0.8 -6.2,-1.9 -2.7,-1 -7.6,-2.6 -10.9,-3.6 -13.1,-3.8 -14.6,-4.5 -13.5,-6.5 2.6,-4.9 0.2,-11.1 -5.4,-13.6 -1.7,-0.8 -5.8,-3.1 -9.1,-5.1 -5.8,-3.6 -6,-3.9 -5.7,-7.4 0.3,-3.4 -0.1,-4 -4.5,-7.3 -10.6,-8 -20.9,-15.2 -22.6,-15.8 -1,-0.4 -2.3,-1.9 -3,-3.5 -0.7,-1.5 -2.5,-4.4 -4,-6.4 -1.5,-2 -3.2,-4.7 -3.7,-6 -1.2,-3.1 -12.2,-16.7 -19.8,-24.4 -7.7,-7.9 -15.9,-14.6 -20.3,-16.6 -1.9,-0.9 -4.1,-2.3 -4.9,-3.2 -0.8,-0.9 -2.1,-1.7 -3,-1.7 -0.9,0 -2.2,-0.5 -2.7,-1.1 -0.6,-0.6 -3.5,-1.3 -6.4,-1.6 -3,-0.3 -5.6,-0.7 -5.8,-0.9 -1,-1 2,-5.4 3.8,-5.4 2.2,0 3.1,-2.6 3.1,-9 -0,-4.2 -0.2,-4.6 -3.8,-6.2 -2.1,-1 -4.3,-1.8 -5,-1.8 -0.6,0 -1.2,-0.9 -1.2,-2 0,-1.4 0.7,-2 2.3,-2 3.3,-0.8 8.4,-1.7 9.5,-5 0.2,-1.4 0.9,-3.2 1.6,-4 2,-2.3 2.5,-7.1 0.9,-7.7 -1.5,-2 -3.1,-5.4 -3.4,-8 0,-2.5 0.2,-2.6 4.4,-2 3.9,0.5 4.7,0.3 7,-2.2 2.3,-2.4 2.5,-3.2 1.7,-5.4 -1.1,-2.4 -2.8,-3.7 -3.1,-6.3 0,-2.1 0.5,-2.4 3.3,-2.4 4.1,0 5.6,4 9.4,5 3.9,0.9 5.5,5.9 7.8,9 11.6,15.1 14.1,20.7 10.6,24.4 -1.2,1.2 -2.1,3.1 -2.1,4.2 -0.1,3.6 -6.5,13.3 -11.3,16.9 -3.9,3 -4.7,4.1 -4.7,6.9 0,6.6 5.8,8.4 13.3,4.3 4.6,-2.4 9.5,-3.6 13.7,-6.7 3.7,-2.9 3.7,-3 4.4,-12.7 0.4,-5.4 0.7,-11.9 0.7,-14.5 0,-3.4 0.3,-4.8 1.3,-4.8 2.4,1.2 4.6,1.9 7.5,2 5.9,-0.5 7.2,4.2 10.2,8.2 2.8,3.6 3.2,3.8 8.9,3.8 4.3,0.8 7.5,-1.8 11.2,-2.9 0.2,0.2 0.8,3.5 1.5,7.4 0.9,8.9 3.8,13.3 9.7,19.2 5,4.8 6.2,4.9 10.7,0.7 3.2,-2.9 6.1,-2.6 7.9,0.9 2.8,5.1 7.3,9.2 9.3,14.7 0.3,1.4 1.5,3 2.5,3.5 5.3,2.7 15,8.6 15.5,9.5 1,1.6 9.1,1.2 10.5,-0.5 1.9,-2.3 3.5,-1.8 9.5,3 9.1,9.2 23.6,11.8 33,20.4 2.3,0.9 3.8,2.5 13.6,-3.3 3,3.2 5.5,5.5 10.2,5.1 4.1,-0.4 15.5,-4 18.8,-5.9 2.4,-1.4 3.1,-1.5 11.3,-2.8 15.4,-2.4 29.7,-11.6 29.7,-19.1 0,-4.3 -0.8,-5.7 -6,-9.8 l -4.8,-3.9 c 3.5,-4.2 9.2,-3.3 13.3,-6.2 4.7,-5.2 7.4,-21.4 4.1,-24.1 -6,-3.1 -14,2.4 -19.6,-1.6 -2.3,-2.1 -2.4,-6 -0.2,-10.5 2.3,-4.6 2.3,-17.7 0.1,-24.4 -5.2,-17 -3.9,-21 -19.8,-29 -3.2,-1.8 -36.8,-2.1 -45.4,-0.4 -4.9,1 -5.9,0.9 -7.5,-0.5 -2,-1.8 -9.1,-2.2 -11.9,-0.7 -9.9,5.8 -18.6,6.9 -19.2,-6.1 0,-3.4 -2.2,-8.2 -5.4,-11.8 -1.2,-1.4 -3,-3.7 -3.9,-5.2 -1.6,-2.7 -1.6,-2.7 1.5,-3.4 1.7,-0.4 4.5,-1.4 6.2,-2.4 2.9,-1.6 8.9,-3.6 18.1,-6.2 8.4,-2.3 10.1,-2.9 23.1,-8.8 7.1,-3.4 14.6,-5.8 22.4,-7 7.7,-1 8.8,-1.5 12.1,-4.7 4,-3.9 4.9,-3.4 4.9,2.7 0,2.4 -0.4,2.9 -2.5,2.9 -2.7,0 -3.4,2.1 -1.2,3.9 0.7,0.6 3.8,1.5 6.8,1.9 5.1,0.7 5.4,1 5.8,3.8 0.4,3.4 7,12.5 11,15.1 8.2,2.8 10,6.5 33.1,-1.9 2.3,2.7 4.6,5.4 6.8,8.2 1,1.4 1.4,1.4 3.2,-0.3 5.2,-6.9 0.5,-17 -0.9,-24.6 -0.1,-3.2 -6.6,-9.2 -12.1,-11.1 -6.2,-2.1 -21.5,-2.6 -28.9,-0.8 -6,1.4 -13.2,1.3 -14.2,-0.3 -0.9,-3.9 -2.2,-9.9 1.4,-12.8 5.5,-3.5 15.1,-5.5 32.2,-6.6 6.9,2.4 62.8,-15.7 63.5,-4.4 0,2.8 2.9,9.1 5.5,11.8 2,2.1 4.5,0.6 4.5,-2.7 4,-11.3 11.9,-20.2 23.8,-22.1 12.9,-2.6 20.7,5.6 19,18 -1.6,12.9 -12.1,19.4 -24.3,20.9 -6.1,0 -8.4,1.1 -5,2.4 4.2,5.8 10,10.8 16,15.2 2,1.3 4.7,2.4 6.1,2.4 3,0 3.1,1.1 0.5,3.5 -4.1,4.8 -2.1,11.2 2.4,14.7 2.4,1.8 5.2,3.8 6.2,4.4 0.7,4.7 -9.1,-0.9 -9.5,9.6 0.5,2.4 -2,6.5 -2.1,6.8 9.3,10.1 8.3,21.3 20.7,31.9 1.3,0.7 1.2,1.2 -0.6,3.6 -4.3,5.5 -2.4,11.1 6.7,20.3 4.1,4.1 5.1,5.8 5.1,8.5 0,3.1 1.6,5 17.4,20.3 9.5,9.3 21,21.3 25.5,26.6 5.1,4.1 6.8,11.1 15.5,12.1 -8.6,3.8 -13.2,8.9 -8.9,18.2 9.9,14.9 18.8,25 22.7,43.8 0.7,1.4 0.5,1.8 -1.5,1.8 -1.3,0 -3.1,0.8 -4,1.8 -2.8,3.1 -2.1,39.5 1,51.8 0.6,2.3 0.5,2.3 -6,1.7 -7.8,-0.7 -10.6,0.9 -10.6,6.2 1,11.4 9.6,19.9 12,30.9 10.4,24.5 0.7,9.9 -0.2,31.4 1.1,16.2 13.9,28.9 27.7,36.2 3,1.1 3,1.6 1,6.5 -2.5,5.9 -1.4,7.9 6.7,13 0.9,0.6 5.3,3.8 9.8,7.3 9,5.6 11.4,7.1 20.1,13.9 6.6,3.4 6.4,5.5 -0.5,6.6 -4.5,0.5 -8.5,2.5 -12.7,3.8 -6,1.8 -6.3,4.2 -0.7,5.8 4.1,1.2 10.3,6 12,9.2 1.4,2.6 -0.9,5.9 -4.1,5.9 -3.4,0 -6.9,3.9 -6.9,7.6 6.1,16.9 15.1,32.6 23.6,48.4 2.1,3.1 -1.6,3.2 -3.8,4.8 -2.5,2.2 -2.4,6.2 0.8,20 0.5,2 0.1,2.2 -2.9,2.2 -11.1,1.3 -6.1,16.5 -2.3,22.8 5.7,13.2 21.1,22.4 24.8,36.2 -0.6,0 -2.4,1.2 -4.2,2.7 -4.4,3.3 -3,8.9 -0.7,13.1 l 15.3,26.7 -0.8,8 c -0.5,4.4 -0.6,14.9 -0.2,23.4 0.6,15.2 0.6,15.5 3.5,19 2.7,3.9 2.6,5.9 7.7,6.1 4.6,0 4.9,0.2 9,5.5 4.5,5.8 4.9,7.6 3.1,12.2 -0.6,1.6 -1.9,6 -3,9.8 -3.6,22.7 -19.8,38.4 -33.6,55.5 -7.9,10.8 -20.6,15.5 -31.9,21.9 -10,5.8 -13.8,7 -24.8,8.6 -12.8,0.3 -23.6,3.3 -34.7,8.6 -6.7,5.4 -13.2,10.9 -20,15.9 -3.2,2.5 -6,2.6 -6,0.1 z m -184.4,-840.7 c -0.9,-0.9 -1.6,-3.3 -1.6,-5.5 0,-3.8 0.1,-3.9 3.5,-3.9 2.4,0 3.5,0.5 3.5,1.5 0,0.8 0.7,1.5 1.5,1.5 0.8,0 1.5,-0.7 1.5,-1.5 0,-1 1,-1.5 3,-1.5 3.3,0 3.6,0.8 1.8,5.6 -1.8,5.1 -9.8,7.3 -13.3,3.8 z" /><path fill="#F3EFE6" d="m 261.7,157.2 c 4.5,-6.7 4.2,-7.5 -2.6,-6.1 -2.6,0.5 -3.1,1.1 -3.1,3.5 -0.3,2.2 1.4,2.7 2,4.4 0,2.4 1.3,1.8 3.7,-1.8 z" /><path fill="#F3EFE6" d="m 350.5,99.3 c 3.3,-3.9 3.5,-4.3 1.9,-5.5 -2.5,-1.8 -3.2,-1.6 -3.9,1.1 -1.1,4.2 -9.7,6.3 -12.9,3.1 -0.9,-0.9 -1.6,-2.8 -1.6,-4.4 0,-2.3 -0.3,-2.7 -2,-2.3 -1.6,0.4 -2,1.4 -2,4.3 0,5.5 3.4,8 11.1,8 5.6,0 5.9,-0.2 9.4,-4.2 z" /><path fill="#F3EFE6" d="m 344,90 c 0,-0.8 -0.7,-1.5 -1.5,-1.5 -0.8,0 -1.5,0.7 -1.5,1.5 0,0.8 0.7,1.5 1.5,1.5 0.8,0 1.5,-0.7 1.5,-1.5 z" /></g></svg>
-      </g>
-      <path d="M4 4H96V56C96 86 76 106 50 116C24 106 4 86 4 56Z" fill="none" stroke="#141414" stroke-width="1.6" stroke-linejoin="round"/>
-    </svg>
-  </svg>
+<img class="badge" src="img/treat-arms-900.webp" srcset="img/treat-arms-450.webp 450w, img/treat-arms-900.webp 900w" sizes="(min-width: 56rem) 21rem, 8rem" width="900" height="1092" alt="The Treat arms: a shield of gold and red stripes with a black bear in a silver corner, a helmet, red and gold mantling, and a unicorn's head crest" fetchpriority="high">
 </div></div>
 
 <main id="main">
